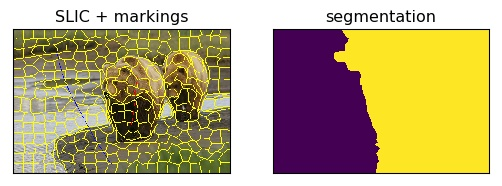
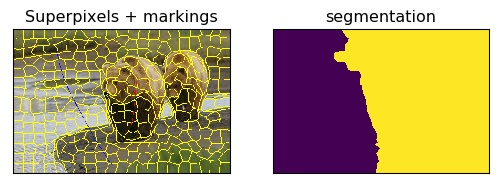
Refactoring

Changed region(s): [[0.0299, 0.0538, 0.4482, 0.1344]]

diff --git a/algorithms/main.py b/algorithms/main.py
@@ -12,7 +12,8 @@ from skimage.segmentation import mark_boundaries
 
 
 class Algorithms:
-    def __init__(self):
+    def __init__(self, image_paths):
+        self.images = image_paths
         self.imgs_float64 = dict()
         self.imgs_segmented = dict()
         self.imgs_segment_ids = dict()
@@ -21,137 +22,113 @@ class Algorithms:
         self.imgs_color_histograms_normalized = dict()
         self.imgs_cosegmented = dict()
 
-    # generate super-pixel segments from images in img_paths using SLIC
-    def slic(self, img_paths, num_segments, compactness=10.0, max_item=10, sigma=5):
-        for image in img_paths:
+    # generate super-pixel segments for images in img_paths using SLIC
+    def slic(self, num_segments, compactness=10.0, max_item=10, sigma=5):
+        for image in self.images:
             self.imgs_float64[image] = slic.read_image_as_float64(image)
-            self.imgs_segmented[image] = slic.get_segmented_image(self.imgs_float64[image],
-                                                                  num_segments, compactness, max_item, sigma)
+            self.imgs_segmented[image] = slic.get_segmented_image(self.imgs_float64[image], num_segments,
+                                                                  compactness, max_item, sigma)
             self.imgs_segment_ids[image] = np.unique(self.imgs_segmented[image])
 
-    def get_segmented_images(self, img_paths):
-        segmented_images = dict()
-        for image in img_paths:
-            segmented_images[image] = self.imgs_segmented[image]
-        return segmented_images
+    def perform_cosegmentation(self, fg_segments, bg_segments):
+        for img in self.images:
+            centers = np.array([np.mean(np.nonzero(self.imgs_segmented[img] == i), axis=1)
+                                for i in self.imgs_segment_ids[img]])
 
-    def save_segmented_images(self, img_paths):
-        for image in img_paths:
-            slic.save_superpixel_image(self.imgs_float64[image], self.imgs_segmented[image],
-                                       'output/superpixel/'+image.split('/')[-1])
+            self.imgs_segment_neighbors[img] = Delaunay(centers).vertex_neighbor_vertices
 
-    def get_color_histogram(self, img_path, segment_id):
-        return self.imgs_color_histograms[img_path][segment_id]
-
-    def perform_cosegmentations(self, img_paths, fg_segments, bg_segments):
-        for img_path in img_paths:
-            centers = np.array([np.mean(np.nonzero(self.imgs_segmented[img_path] == i), axis=1)
-                                for i in self.imgs_segment_ids[img_path]])
-
-            self.imgs_segment_neighbors[img_path] = Delaunay(centers).vertex_neighbor_vertices
-
-            hsv = cv2.cvtColor(self.imgs_float64[img_path].astype('float32'), cv2.COLOR_BGR2HSV)
+            hsv = cv2.cvtColor(self.imgs_float64[img].astype('float32'), cv2.COLOR_BGR2HSV)
             bins = [20, 20]  # H = S = 20
             ranges = [0, 360, 0, 1]  # H: [0, 360], S: [0, 1]
-            self.imgs_color_histograms[img_path] = np.float32(
-                [cv2.calcHist([hsv], [0, 1], np.uint8(self.imgs_segmented[img_path] == i), bins, ranges).flatten()
-                 for i in self.imgs_segment_ids[img_path]])
-            self.imgs_color_histograms_normalized[img_path] = coseg.normalize_histograms(
-                self.imgs_color_histograms[img_path])
+            self.imgs_color_histograms[img] = np.float32(
+                [cv2.calcHist([hsv], [0, 1], np.uint8(self.imgs_segmented[img] == i), bins, ranges).flatten()
+                 for i in self.imgs_segment_ids[img]])
+            self.imgs_color_histograms_normalized[img] = coseg.normalize_histograms(
+                self.imgs_color_histograms[img])
 
         # get cumulative BG/FG histograms, being the sum of the selected superpixel IDs and then normalized
         h_fg = None
         h_bg = None
-        for img_path in img_paths:
-            if img_path in fg_segments:
+        for img in self.images:
+            if img in fg_segments:
                 if h_fg is None:
-                    h_fg = np.sum(self.imgs_color_histograms[img_path][fg_segments[img_path]], axis=0)
+                    h_fg = np.sum(self.imgs_color_histograms[img][fg_segments[img]], axis=0)
                 else:
-                    h_fg += np.sum(self.imgs_color_histograms[img_path][fg_segments[img_path]], axis=0)
+                    h_fg += np.sum(self.imgs_color_histograms[img][fg_segments[img]], axis=0)
                 if h_bg is None:
-                    h_bg = np.sum(self.imgs_color_histograms[img_path][bg_segments[img_path]], axis=0)
+                    h_bg = np.sum(self.imgs_color_histograms[img][bg_segments[img]], axis=0)
                 else:
-                    h_bg += np.sum(self.imgs_color_histograms[img_path][bg_segments[img_path]], axis=0)
+                    h_bg += np.sum(self.imgs_color_histograms[img][bg_segments[img]], axis=0)
         fg_cumulative_hist = h_fg / h_fg.sum()
         bg_cumulative_hist = h_bg / h_bg.sum()
 
-        for img_path in img_paths:
-            if img_path in fg_segments:
-                foreground = fg_segments[img_path]
+        for img in self.images:
+            if img in fg_segments:
+                foreground = fg_segments[img]
             else:
                 foreground = []
-            if img_path in bg_segments:
-                background = bg_segments[img_path]
+            if img in bg_segments:
+                background = bg_segments[img]
             else:
                 background = []
             graph_cut = coseg.do_graph_cut((fg_cumulative_hist, bg_cumulative_hist),
                                            (foreground, background),
-                                           self.imgs_color_histograms_normalized[img_path],
-                                           self.imgs_segment_neighbors[img_path])
+                                           self.imgs_color_histograms_normalized[img],
+                                           self.imgs_segment_neighbors[img])
 
-            segmentation = coseg.pixels_for_segment_selection(self.imgs_segmented[img_path], np.nonzero(graph_cut))
+            segmentation = coseg.pixels_for_segment_selection(self.imgs_segmented[img], np.nonzero(graph_cut))
 
-            self.imgs_cosegmented[img_path] = np.uint8(segmentation * 255)
+            self.imgs_cosegmented[img] = np.uint8(segmentation * 255)
 
-    def get_cosegmented_images(self, img_paths):
-        cosegmented_images = dict()
-        for image in img_paths:
-            cosegmented_images[image] = self.imgs_cosegmented[image]
-        return cosegmented_images
+    # write the segmented images to specified folder
+    def save_segmented_images(self, folder):
+        for image in self.imgs_segmented:
+            slic.save_superpixel_image(self.imgs_float64[image], self.imgs_segmented[image],
+                                       folder + '/' + image.split('/')[-1])
+
+    def plot_cosegmentations(self):
+        for img in self.images:
+            plt.subplot(1, 2, 2), plt.xticks([]), plt.yticks([])
+            plt.title('segmentation')
+            plt.imshow(self.imgs_cosegmented[img])
+
+            plt.subplot(1, 2, 1), plt.xticks([]), plt.yticks([])
+            superpixels = mark_boundaries(self.imgs_float64[img], self.imgs_segmented[img])
+            marking = cv2.imread('markings/' + img.split('/')[-1])
+            if marking is not None:
+                superpixels[marking[:, :, 0] != 255] = (1, 0, 0)
+                superpixels[marking[:, :, 2] != 255] = (0, 0, 1)
+            plt.imshow(superpixels)
+            plt.title("Superpixels + markings")
+            
+            plt.savefig("output/segmentation/" + img.split('/')[-1], bbox_inches='tight', dpi=96)
 
     # Function that uses marking images in the markings folder to construct fg_segments and bg_segments
     # - Marking images should be the same filename as the image they mark
     # - Marking images should be white with red pixels marking foreground and blue pixels marking background
-    def get_fg_bg_from_markings(self, img_paths):
+    def get_fg_bg_from_markings(self):
         fg_segments = dict()
         bg_segments = dict()
-        for img_path in img_paths:
+        for img_path in self.images:
             marking = cv2.imread('markings/'+img_path.split('/')[-1])
             if marking is not None:
                 fg_segments[img_path] = np.unique(self.imgs_segmented[img_path][marking[:, :, 0] != 255])
                 bg_segments[img_path] = np.unique(self.imgs_segmented[img_path][marking[:, :, 2] != 255])
         return fg_segments, bg_segments
 
-    def plot_cosegmentations(self, img_paths):
-        for img_path in img_paths:
-            plt.subplot(1, 2, 2), plt.xticks([]), plt.yticks([])
-            plt.title('segmentation')
-            cv2.imwrite("output/segmentation/mask_"+img_path.split('/')[-1], self.imgs_cosegmented[img_path])
-            plt.imshow(self.imgs_cosegmented[img_path])
-            plt.subplot(1, 2, 1), plt.xticks([]), plt.yticks([])
-            img = mark_boundaries(self.imgs_float64[img_path], self.imgs_segmented[img_path])
-            marking = cv2.imread('markings/' + img_path.split('/')[-1])
-            if marking is not None:
-                img[marking[:, :, 0] != 255] = (1, 0, 0)
-                img[marking[:, :, 2] != 255] = (0, 0, 1)
-            plt.imshow(img)
-            plt.title("SLIC + markings")
-            plt.savefig("output/segmentation/"+img_path.split('/')[-1], bbox_inches='tight', dpi=96)
-
 
 def main():
-    # parser = argparse.ArgumentParser()
-    # parser.add_argument("--image", required=True, help="Path to the image")
-    # parser.add_argument("--segments", type=int, default=300, help="Number of segments")
-    # parser.add_argument("--save", default=False, help="Save the image?")
-    # parser.add_argument("--labels", nargs='+', type=int,
-    #                    help="Segment labels marking region where features should be detected")
-    # args = vars(parser.parse_args())
-
     image_paths = ['images/bear1.jpg', 'images/bear2.jpg', 'images/bear3.jpg', 'images/bear4.jpg', 'images/bear5.jpg']
 
-    alg = Algorithms()
-    alg.slic(image_paths, 300)
-    alg.get_segmented_images(image_paths)
-    alg.save_segmented_images(image_paths)
+    alg = Algorithms(image_paths)
+    alg.slic(300)
+    alg.save_segmented_images('output/superpixel')
 
-    fg_segments, bg_segments = alg.get_fg_bg_from_markings(image_paths)
+    fg_segments, bg_segments = alg.get_fg_bg_from_markings()
 
-    alg.perform_cosegmentations(image_paths, fg_segments, bg_segments)
+    alg.perform_cosegmentation(fg_segments, bg_segments)
 
-    alg.plot_cosegmentations(image_paths)
-
-    hist = alg.get_color_histogram('images/bear2.jpg', 25)
+    alg.plot_cosegmentations()
 
 
 if __name__ == '__main__':

diff --git a/algorithms/temp.py b/algorithms/temp.py
@@ -1,43 +1,50 @@
+# parser = argparse.ArgumentParser()
+# parser.add_argument("--image", required=True, help="Path to the image")
+# parser.add_argument("--segments", type=int, default=300, help="Number of segments")
+# parser.add_argument("--save", default=False, help="Save the image?")
+# parser.add_argument("--labels", nargs='+', type=int,
+#                    help="Segment labels marking region where features should be detected")
+# args = vars(parser.parse_args())
 
-        # save super-pixel representation or plot it
-        if args["save"]:
-            slic.io.imsave('super-pixels.png', slic.mark_boundaries(img_float64, segmented_pixels))
-        else:
-            slic.show_plot(img_float64, segmented_pixels)
+# save super-pixel representation or plot it
+# if args["save"]:
+#    slic.io.imsave('super-pixels.png', slic.mark_boundaries(img_float64, segmented_pixels))
+# else:
+#    slic.show_plot(img_float64, segmented_pixels)
 
-        img_uint8 = sift.read_image_as_uint8(args["image"])
-        gray_uint8 = sift.to_gray_value(img_uint8)
+# img_uint8 = sift.read_image_as_uint8(args["image"])
+# gray_uint8 = sift.to_gray_value(img_uint8)
 
-        # Create mask if labels are given, otherwise mask=None
-        mask = None
-        if args["labels"]:
-            mask = slic.get_mask(segmented_pixels, args["labels"])
-            slic.io.imsave('mask.png', mask)
+# Create mask if labels are given, otherwise mask=None
+# mask = None
+# if args["labels"]:
+#     mask = slic.get_mask(segmented_pixels, args["labels"])
+#     slic.io.imsave('mask.png', mask)
 
-        # SIFT
-        kp = sift.get_keypoints(gray_uint8, mask)
-        out = copy.deepcopy(img_uint8)
-        sift.draw_keypoints(img_uint8, kp, out)
-        sift.draw_keypoints(img_uint8, kp, out, detailed=True)
+# # SIFT
+# kp = sift.get_keypoints(gray_uint8, mask)
+# out = copy.deepcopy(img_uint8)
+# sift.draw_keypoints(img_uint8, kp, out)
+# sift.draw_keypoints(img_uint8, kp, out, detailed=True)
 
-        # Histograms
-        hist = histogram.get_histogram(img_uint8, mask)
-        hist_gray = histogram.get_histogram(gray_uint8, mask, colors='k')
-        histogram.plot_histogram(hist)
-        histogram.plot_histogram(hist_gray)
+# # Histograms
+# hist = histogram.get_histogram(img_uint8, mask)
+# hist_gray = histogram.get_histogram(gray_uint8, mask, colors='k')
+# histogram.plot_histogram(hist)
+# histogram.plot_histogram(hist_gray)
 
-        ###########################
-        def plot_cosegmentations(self, images, markings):
-            plt.subplot(1, 2, 2), plt.xticks([]), plt.yticks([])
-            plt.title('segmentation')
-            cv2.imwrite("output_segmentation.png", segmask)
-            plt.imshow(segmask)
+# ###########################
+# def plot_cosegmentations(self, images, markings):
+#     plt.subplot(1, 2, 2), plt.xticks([]), plt.yticks([])
+#     plt.title('segmentation')
+#     cv2.imwrite("output_segmentation.png", segmask)
+#     plt.imshow(segmask)
 
-            plt.subplot(1, 2, 1), plt.xticks([]), plt.yticks([])
-            img = mark_boundaries(img, segments)
-            io.imsave('superpixel.png', img)
-            img[img_marking[:, :, 0] != 255] = (1, 0, 0)
-            img[img_marking[:, :, 2] != 255] = (0, 0, 1)
-            plt.imshow(img)
-            plt.title("SLIC + markings")
-            plt.savefig("segmentation.png", bbox_inches='tight', dpi=96)
+#     plt.subplot(1, 2, 1), plt.xticks([]), plt.yticks([])
+#     img = mark_boundaries(img, segments)
+#     io.imsave('superpixel.png', img)
+#     img[img_marking[:, :, 0] != 255] = (1, 0, 0)
+#     img[img_marking[:, :, 2] != 255] = (0, 0, 1)
+#     plt.imshow(img)
+#     plt.title("SLIC + markings")
+#     plt.savefig("segmentation.png", bbox_inches='tight', dpi=96)
